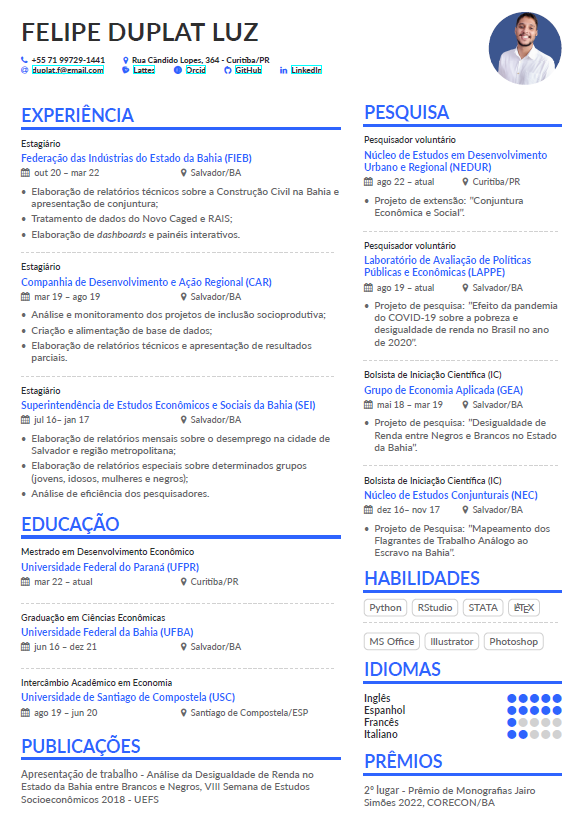
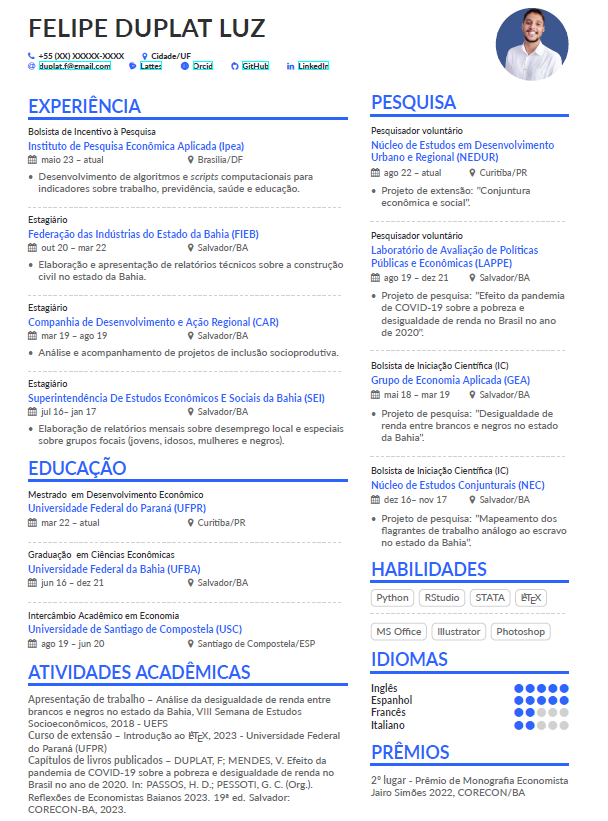
atualizando currículo.

Changed region(s): [[0.0309, 0.0, 0.9897, 1.0], [0.0309, 0.0, 0.5567, 0.0914]]

diff --git a/Currículo/PT-BR/Currículo_PT-BR.tex b/Currículo/PT-BR/Currículo_PT-BR.tex
@@ -73,7 +73,7 @@
 %% EXPERIÊNCIA
 \cvsection[Coluna]{Experiência}
 
-\cvevent{\small Bolsa de Incentivo à Pesquisa}{Instituto de Pesquisa Econômica Aplicada (Ipea)}{maio 23 -- atual}{Brasília/DF}
+\cvevent{\small Bolsista de Incentivo à Pesquisa}{Instituto de Pesquisa Econômica Aplicada (Ipea)}{maio 23 -- atual}{Brasília/DF}
 \begin{itemize}
 	\item Desenvolvimento de algoritmos e \textit{scripts} computacionais para indicadores sobre trabalho, previdência, saúde e educação.
 \end{itemize}
